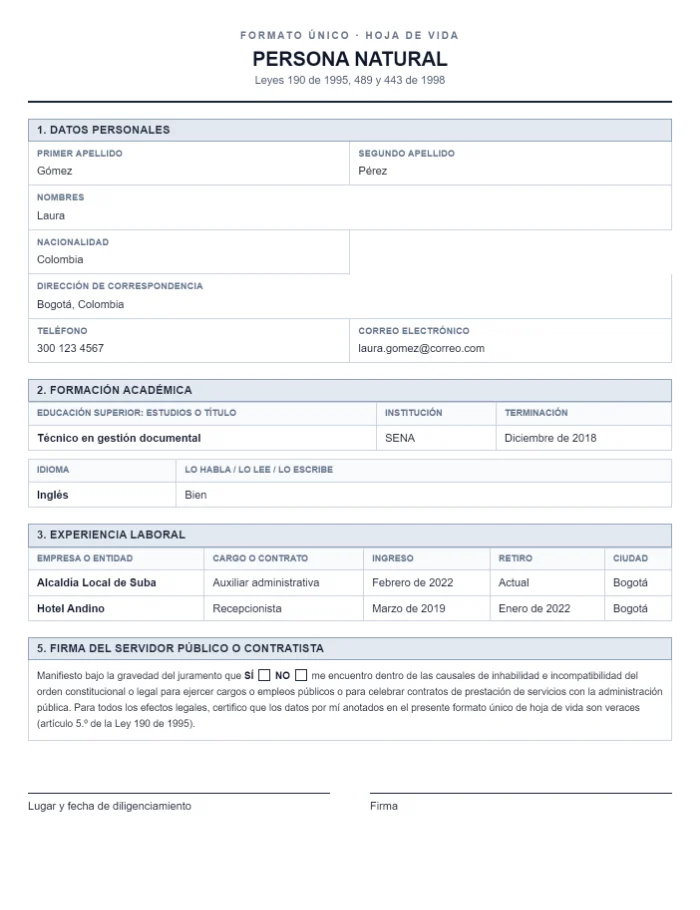
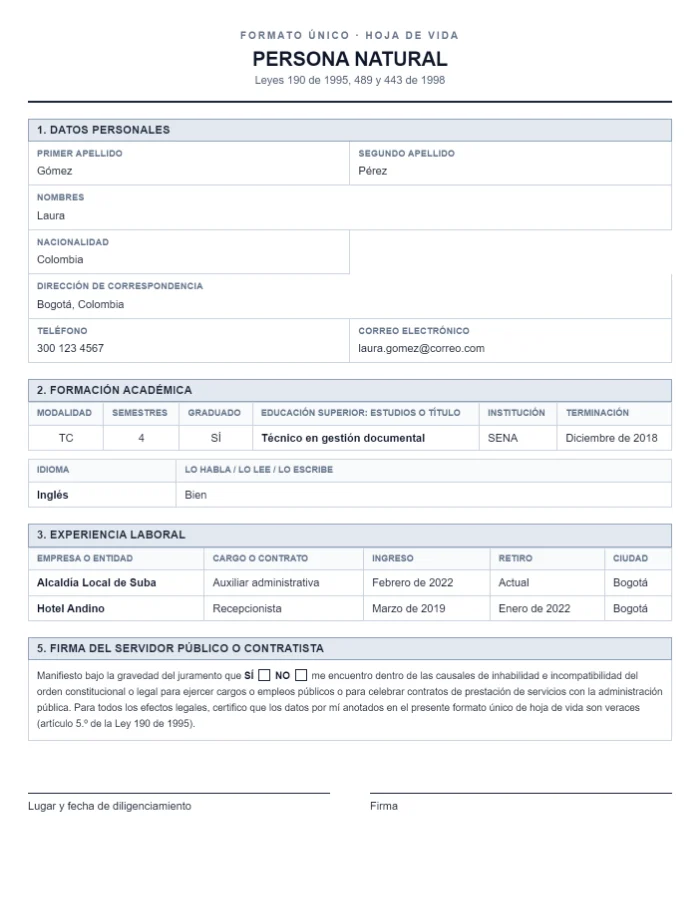
fix(procv): show the real education title; DAFP modality, semesters, graduated
- Templates received only the type of studies, so a CV showed
  "Pregrado/Licenciatura" instead of the programme the person wrote, and
  Word printed the internal key ("bachelor — …"). The title is now the
  programme (or the type in words when there is none).
- Education items get optional public-sector form data: academic
  modality (TC, TL, TE, UN, ES, MG, DOC), approved semesters and
  graduated, in a fold that opens by itself for the DAFP template.
  Modality is inferred only when unambiguous; graduated comes from the
  dates unless chosen.
- DAFP template: Modalidad / Semestres / Graduado columns; secondary
  school no longer listed as higher education.
- Core DAFP page and preview updated accordingly.

Changed region(s): [[0.36, 0.4308, 0.66, 0.4923], [0.06, 0.4308, 0.33, 0.4923], [0.69, 0.4308, 0.93, 0.4923]]

diff --git a/apps/procv/frontend/src/modules/procv/components/editor/sections/EducationSection.tsx b/apps/procv/frontend/src/modules/procv/components/editor/sections/EducationSection.tsx
@@ -1,4 +1,5 @@
 import React, { useEffect, useState } from 'react';
+import { DAFP_MODALITIES, inferDafpModality } from "../../../education";
 import { tx } from '../../../uiText';
 import { useTranslation } from 'react-i18next';
 import { toast } from 'react-hot-toast';
@@ -17,6 +18,8 @@ interface EducationSectionProps {
   onChange: (data: EducationItem[]) => void;
   errors?: ValidationErrors;
   isLoading?: boolean;
+  /** Current template: the public-sector form data opens by itself for "dafp". */
+  template?: string;
 }
 
 const generateId = () => Math.random().toString(36).substr(2, 9);
@@ -126,6 +129,7 @@ export const EducationSection: React.FC<EducationSectionProps> = ({
   onChange,
   errors = {},
   isLoading = false,
+  template,
 }) => {
   const { t, i18n } = useTranslation();
   const [expandedItems, setExpandedItems] = useState<string[]>(() => {
@@ -601,6 +605,49 @@ export const EducationSection: React.FC<EducationSectionProps> = ({
                       </div>
                     </FormField>
                   </div>
+
+                  {/* Extra data of the public-sector form (Formato Único, Función Pública). */}
+                  {education.degree !== 'high-school' ? (
+                    <details open={template === 'dafp'} className="rounded-lg border border-slate-200 bg-slate-50 px-4 py-3 dark:border-slate-700 dark:bg-slate-800/40">
+                      <summary className="cursor-pointer text-sm font-medium text-slate-700 dark:text-slate-200">
+                        {tx('editor.education.dafpTitle', 'Datos para el formato de Función Pública (opcional)')}
+                      </summary>
+                      <div className="mt-3 grid grid-cols-1 gap-4 sm:grid-cols-3">
+                        <FormField label={tx('editor.education.dafpModality', 'Modalidad académica')}>
+                          <select
+                            value={education.dafpModality || ''}
+                            onChange={(e) => updateEducation(education.id, { dafpModality: e.target.value })}
+                            className="block w-full rounded-md border border-slate-300 bg-white px-3 py-2 text-sm dark:border-slate-600 dark:bg-slate-900 dark:text-slate-100"
+                          >
+                            <option value="">{inferDafpModality(education.degree) ? `${tx('editor.education.dafpModalityAuto', 'Según el tipo')}: ${inferDafpModality(education.degree)}` : tx('editor.ui.select', 'Seleccionar')}</option>
+                            {DAFP_MODALITIES.map((option) => <option key={option.value} value={option.value}>{option.label}</option>)}
+                          </select>
+                        </FormField>
+                        <FormField label={tx('editor.education.dafpSemesters', 'Semestres aprobados')}>
+                          <InputField
+                            type="text"
+                            value={education.dafpSemesters || ''}
+                            onChange={(value) => updateEducation(education.id, { dafpSemesters: value.replace(/[^0-9]/g, '').slice(0, 2) })}
+                            placeholder="Ej.: 10"
+                          />
+                        </FormField>
+                        <FormField label={tx('editor.education.dafpGraduated', '¿Graduado?')}>
+                          <select
+                            value={education.dafpGraduated || ''}
+                            onChange={(e) => updateEducation(education.id, { dafpGraduated: e.target.value })}
+                            className="block w-full rounded-md border border-slate-300 bg-white px-3 py-2 text-sm dark:border-slate-600 dark:bg-slate-900 dark:text-slate-100"
+                          >
+                            <option value="">{tx('editor.education.dafpGraduatedAuto', 'Según las fechas')}</option>
+                            <option value="yes">{tx('editor.ui.yes', 'Sí')}</option>
+                            <option value="no">{tx('editor.ui.no', 'No')}</option>
+                          </select>
+                        </FormField>
+                      </div>
+                      <p className="mt-2 text-xs text-slate-500 dark:text-slate-400">
+                        {tx('editor.education.dafpHint', 'Solo aparecen en el formato de Función Pública. El título obtenido sale del campo de arriba.')}
+                      </p>
+                    </details>
+                  ) : null}
 
                   {/* GPA */}
                   <FormField

diff --git a/apps/procv/frontend/tests/educationTitle.test.tsx b/apps/procv/frontend/tests/educationTitle.test.tsx
@@ -1,0 +1,48 @@
+import React from "react";
+import { render } from "@testing-library/react";
+import { describe, expect, it } from "vitest";
+import { dafpGraduated, educationTitle, inferDafpModality } from "../src/modules/procv/education";
+import { cvDocxContent } from "../src/modules/procv/exportDocx";
+import { TemplateRenderer } from "../src/modules/procv/components/TemplateRenderer";
+import { createInitialCVData } from "../src/stores/cvEditorStore";
+
+describe("education title and public-sector form data", () => {
+  it("shows the programme the person wrote, not only the type of studies", () => {
+    expect(educationTitle({ degree: "bachelor", fieldOfStudy: "Administración de empresas" }, () => "Pregrado/Licenciatura")).toBe("Administración de empresas");
+    expect(educationTitle({ degree: "bachelor", fieldOfStudy: "" }, () => "Pregrado/Licenciatura")).toBe("Pregrado/Licenciatura");
+  });
+
+  it("no longer prints the internal type key in Word", () => {
+    const cv = {
+      ...createInitialCVData(),
+      education: [{ id: "d", degree: "bachelor", fieldOfStudy: "Administración de empresas", institution: "Universidad Nacional", startDate: "2010-02", endDate: "2015-12", isCurrentlyStudying: false, isVisible: true, order: 0, activities: [], achievements: [] }],
+    };
+    const education = cvDocxContent(cv as never).sections.find((section) => section.key === "education")!;
+    expect(education.blocks[0]!.title).toBe("Administración de empresas");
+    expect(JSON.stringify(education)).not.toContain("bachelor");
+  });
+
+  it("infers only unambiguous modalities and graduation from the dates", () => {
+    expect(inferDafpModality("bachelor")).toBe("UN");
+    expect(inferDafpModality("master")).toBe("MG");
+    expect(inferDafpModality("associate")).toBe("");
+    expect(dafpGraduated({ endDate: "2015-12" })).toBe("SÍ");
+    expect(dafpGraduated({ isCurrentlyStudying: true })).toBe("NO");
+    expect(dafpGraduated({ dafpGraduated: "no", endDate: "2015-12" })).toBe("NO");
+  });
+
+  it("fills modality, semesters and graduation in the DAFP form, without secondary school", () => {
+    const data = {
+      personal: { name: "Laura Gómez" },
+      education: [
+        { id: "a", degree: "Administración de empresas", degreeType: "bachelor", dafpModality: "UN", dafpSemesters: "10", dafpGraduated: "SÍ", institution: "Universidad Nacional", from: "2010-02", to: "2015-12" },
+        { id: "b", degree: "Bachiller académico", degreeType: "high-school", institution: "Colegio San José", from: "", to: "2009-11" },
+      ],
+      experience: [], application: {},
+    };
+    const { container } = render(<TemplateRenderer template="dafp" data={data as never} />);
+    const rows = Array.from(container.querySelectorAll("tbody tr")).map((row) => Array.from(row.querySelectorAll("td")).map((cell) => cell.textContent));
+    expect(rows.find((cells) => cells.includes("Administración de empresas"))?.slice(0, 3)).toEqual(["UN", "10", "SÍ"]);
+    expect(container.textContent).not.toContain("Colegio San José");
+  });
+});

diff --git a/apps/procv/frontend/src/modules/procv/components/TemplateRenderer.tsx b/apps/procv/frontend/src/modules/procv/components/TemplateRenderer.tsx
@@ -103,7 +103,14 @@ export interface CVData {
   education?: Array<{
     id: string;
     institution: string;
+    /** Title shown: the programme, or the type of studies when there is none. */
     degree: string;
+    /** Type of studies (high-school, bachelor, master…). */
+    degreeType?: string;
+    /** Formato único (Función Pública). */
+    dafpModality?: string;
+    dafpSemesters?: string;
+    dafpGraduated?: string;
     from: string;
     to?: string;
     city?: string;
@@ -2840,12 +2847,16 @@ function TemplateDafp({ data }: { data: CVData }) {
           <table className="w-full border-collapse text-[11px]">
             <thead>
               <tr className="bg-slate-50 text-left text-[9px] uppercase text-slate-500">
-                <th className={CELL}>Educación superior: estudios o título</th><th className={CELL}>Institución</th><th className={CELL}>Terminación</th>
+                <th className={CELL}>Modalidad</th><th className={CELL}>Semestres</th><th className={CELL}>Graduado</th><th className={CELL}>Educación superior: estudios o título</th><th className={CELL}>Institución</th><th className={CELL}>Terminación</th>
               </tr>
             </thead>
             <tbody>
-              {education.map((item) => (
+              {/* Secondary school goes in "Educación básica y media", not here. */}
+              {education.filter((item) => item.degreeType !== "high-school").map((item) => (
                 <tr key={item.id}>
+                  <td className={`${CELL} text-center`}>{item.dafpModality}</td>
+                  <td className={`${CELL} text-center`}>{item.dafpSemesters}</td>
+                  <td className={`${CELL} text-center`}>{item.dafpGraduated}</td>
                   <td className={`${CELL} font-semibold`}>{getLocalizedDegreeLabel(item.degree)}</td>
                   <td className={CELL}>{item.institution}</td>
                   <td className={`${CELL} whitespace-nowrap`}>{item.to ? formatMonthYear(item.to) : "En curso"}</td>

diff --git a/apps/procv/frontend/src/modules/procv/education.ts b/apps/procv/frontend/src/modules/procv/education.ts
@@ -1,0 +1,49 @@
+/**
+ * How an education entry is shown, and the extra data of the Colombian
+ * public-sector form (Formato Único de Hoja de Vida, Función Pública).
+ */
+
+/** Academic modality codes of the official form (as used in filled-in forms of national entities). */
+export const DAFP_MODALITIES: Array<{ value: string; label: string }> = [
+  { value: "TC", label: "TC — Técnica" },
+  { value: "TL", label: "TL — Tecnológica" },
+  { value: "TE", label: "TE — Tecnológica especializada" },
+  { value: "UN", label: "UN — Universitaria" },
+  { value: "ES", label: "ES — Especialización" },
+  { value: "MG", label: "MG — Maestría o magíster" },
+  { value: "DOC", label: "DOC — Doctorado" },
+];
+
+const clean = (value: unknown) => (typeof value === "string" ? value.trim() : "");
+
+/**
+ * Title shown on the CV: the programme the person wrote ("Administración de
+ * empresas"), or the type of studies when there is none. Showing only the
+ * type ("Pregrado/Licenciatura") lost the actual title.
+ */
+export function educationTitle(item: { degree?: string; fieldOfStudy?: string }, degreeLabel: (degree?: string) => string): string {
+  return clean(item.fieldOfStudy) || degreeLabel(item.degree);
+}
+
+/** Modality when the person did not pick one: only the unambiguous types. */
+export function inferDafpModality(degreeType: unknown): string {
+  switch (degreeType) {
+    case "bachelor":
+      return "UN";
+    case "master":
+      return "MG";
+    case "doctorate":
+    case "post-doctorate":
+      return "DOC";
+    default:
+      return "";
+  }
+}
+
+/** "SÍ"/"NO" for the official form: chosen by the person, or from the dates. */
+export function dafpGraduated(item: { dafpGraduated?: string; isCurrentlyStudying?: boolean; endDate?: string }): string {
+  if (item.dafpGraduated === "yes") return "SÍ";
+  if (item.dafpGraduated === "no") return "NO";
+  if (item.isCurrentlyStudying) return "NO";
+  return clean(item.endDate) ? "SÍ" : "";
+}

diff --git a/apps/procv/frontend/src/modules/procv/components/editor/CompleteCVEditor.tsx b/apps/procv/frontend/src/modules/procv/components/editor/CompleteCVEditor.tsx
@@ -31,6 +31,7 @@ import { TemplateColorCustomizer } from "./TemplateColorCustomizer";
 import { createEmptyItem } from "./components/DraggableBlock";
 import { OPEN_CUSTOMIZER_EVENT, PreviewDesignBar } from "./components/PreviewDesignBar";
 import { personNames } from "../../personName";
+import { dafpGraduated, inferDafpModality } from "../../education";
 import { EditorDisclosure } from "./components/EditorDisclosure";
 import { useAuthenticatedCVLoader } from "./useAuthenticatedCVLoader";
 import { useEditorLayout } from "./useEditorLayout";
@@ -387,7 +388,13 @@ export function mergeCvDataWithParsed(current: CVData, parsed: ParsedCvDraft): P
     education: hiddenIn(cvData, 'education') ? [] : cvData.education?.filter((edu: any) => edu.isVisible !== false).map((edu: any) => ({
       id: edu.id,
       institution: edu.institution,
-      degree: edu.degree,
+      // The programme the person wrote ("Administración de empresas"); the
+      // type of studies only when there is none (see education.ts).
+      degree: String(edu.fieldOfStudy || '').trim() || edu.degree,
+      degreeType: edu.degree,
+      dafpModality: edu.dafpModality || inferDafpModality(edu.degree),
+      dafpSemesters: String(edu.dafpSemesters || '').trim(),
+      dafpGraduated: dafpGraduated(edu),
       from: edu.startDate,
       // Ongoing studies without a start date still say so.
       to: edu.isCurrentlyStudying ? (edu.startDate ? undefined : 'En curso') : edu.endDate,
@@ -1154,6 +1161,7 @@ export const CompleteCVEditor: React.FC<CompleteCVEditorProps> = ({
           <EducationSection
             data={cvData.education}
             onChange={updateEducation}
+            template={cvData.template}
             {...commonProps}
           />
         );

diff --git a/apps/procv/frontend/src/modules/procv/exportDocx.ts b/apps/procv/frontend/src/modules/procv/exportDocx.ts
@@ -3,6 +3,8 @@ import { defaultGreeting, formatLetterDate, letterParagraphs } from "./coverLett
 import { normalizeCvFont, normalizeFontScale, TEMPLATE_FONT } from "./fonts";
 import { sectionTitle } from "./sectionTitles";
 import { pageColorFor } from "./pageColor";
+import { educationTitle } from "./education";
+import { getLocalizedDegreeLabel } from "./components/TemplateRenderer";
 import { groupReferences, referenceContact, referenceDetails, referenceName, REFERENCE_TYPE_LABELS, REFERENCES_ON_REQUEST_TEXT, visibleReferences } from "./references";
 
 /**
@@ -70,7 +72,9 @@ export function cvDocxContent(cv: CVData): { name: string; headline: string; con
       key: "education",
       heading: sectionTitle(cv.settings, "education"),
       blocks: education.map((item) => ({
-        title: [item.degree, item.fieldOfStudy && item.fieldOfStudy !== item.degree ? item.fieldOfStudy : ""].filter(Boolean).join(" — "),
+        // The programme ("Administración de empresas"), or the type of studies
+        // in words; it used to print the internal key ("bachelor — …").
+        title: educationTitle(item, getLocalizedDegreeLabel),
         subtitle: [item.institution, period(item.startDate, item.endDate, item.isCurrentlyStudying), item.location].filter(Boolean).join(" · "),
       })),
     });

diff --git a/apps/core/src/public/pages/FormatPages.tsx b/apps/core/src/public/pages/FormatPages.tsx
@@ -182,7 +182,7 @@ export function DafpFormatPage() {
                 </tbody>
               </table>
             </div>
-            <p className="mt-3 text-ui-muted">También se anotan los semestres aprobados, si te graduaste, el título obtenido, la fecha de terminación y la tarjeta o matrícula profesional si tu profesión la exige; en idiomas, tu nivel para hablarlo, leerlo y escribirlo. ProCV incluye el título, la institución, la fecha de terminación, la tarjeta profesional y los idiomas; la modalidad y los semestres complétalos a mano si la entidad los exige.</p>
+            <p className="mt-3 text-ui-muted">También se anotan los semestres aprobados, si te graduaste, el título obtenido, la fecha de terminación y la tarjeta o matrícula profesional si tu profesión la exige; en idiomas, tu nivel para hablarlo, leerlo y escribirlo. En ProCV llenas todo esto: en cada estudio, abre «Datos para el formato de Función Pública» para indicar la modalidad, los semestres y si te graduaste.</p>
           </div>
           <div>
             <h3 className="text-lg font-semibold">3. Experiencia laboral</h3>

diff --git a/apps/procv/frontend/src/types/index.ts b/apps/procv/frontend/src/types/index.ts
@@ -168,6 +168,12 @@ export interface EducationItem {
   endDate?: string;
   isCurrentlyStudying: boolean;
   gpa?: string;
+  /** Formato único (Función Pública): academic modality code, see education.ts. */
+  dafpModality?: string;
+  /** Formato único: approved semesters. */
+  dafpSemesters?: string;
+  /** Formato único: graduated ("yes" / "no"); empty = from the dates. */
+  dafpGraduated?: string;
   activities: string[];
   achievements: string[];
   order: number;
